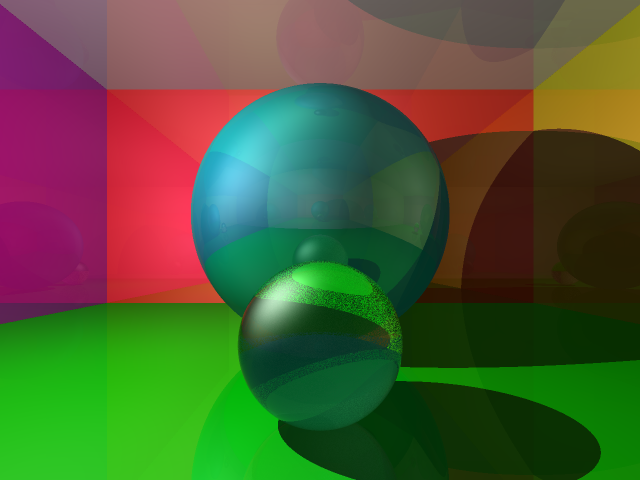
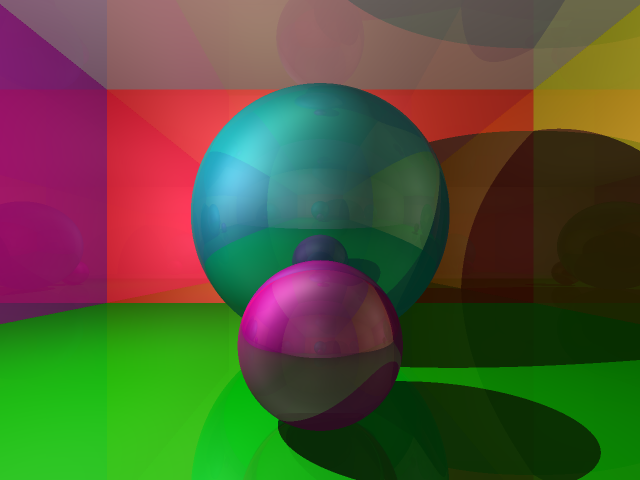
Updated pictures

Changed region(s): [[0.3438, 0.4688, 0.6562, 0.9062]]

diff --git a/Raytracer.java b/Raytracer.java
@@ -29,8 +29,7 @@ public class Raytracer {
 		Raytracer rt = new Raytracer(new Image(640,480,2,eye,320,new Vec(0,0,1)), new ObjectList(), a);
 		rt.obj.add(new Sphere(new Vec(0,80,30),30,new Material(new Vec(0,.7,0.7),new Vec(k,k,k), new Vec(0,0.7,0.7),4)));
 		//rt.obj.add(new Sphere(new Vec(30,50,10),10,new Material(new Vec(0.8,0,0),new Vec(k,k,k), new Vec(0.8,0,0),4)));
-		Sphere s = new Sphere(new Vec(0,40,10),10,new Material(new Vec(0,0,0),new Vec(1,1,1), new Vec(0,0,0),4));
-		s.mt.n = 1.5;
+		Sphere s = new Sphere(new Vec(0,40,10),10,new Material(new Vec(0.8,0,0.6),new Vec(k,k,k), new Vec(0.8,0,0.6),4));
 		rt.obj.add(s);
 		rt.obj.add(new Plane(new Ray(new Vec(0,0,0),new Vec(0,0,1)),new Material(new Vec(0,0.8,0),new Vec(0.2,0.2,0.2), new Vec(0,0.8,0),2)));
 		rt.obj.add(new Plane(new Ray(new Vec(0,150,0),new Vec(0,-1,0)),new Material(new Vec(0.7,0,0),new Vec(k,k,k), new Vec(0.7,0,0),2)));
@@ -78,11 +77,11 @@ public class Raytracer {
 			return col;
 		}
 		double rn = r.u.dot(n);
-		Vec rf = rn < 0 ? refract(r.u,n,1,o.mt.n) : refract(r.u,n,o.mt.n,1);
+		//Vec rf = rn < 0 ? refract(r.u,n,1,o.mt.n) : refract(r.u,n,o.mt.n,1);
 		double rfc = rn < 0 ? reflectance(r.u,n,1,o.mt.n) : reflectance(r.u,n,o.mt.n,1);
-		Vec lf = rf.equals(Vec.BLANK) ? Vec.BLANK : trace(new Ray(p,rf),depth+1,alp);
+		//Vec lf = rf.equals(Vec.BLANK) ? Vec.BLANK : trace(new Ray(p,rf),depth+1,alp);
 		col = col.add(lr.mult(o.mt.ks).mult(rfc));
-		col = col.add(lf.mult(o.mt.ks).mult(1-rfc));
+		//col = col.add(lf.mult(o.mt.ks).mult(1-rfc));
 		return col;
 	}
 
